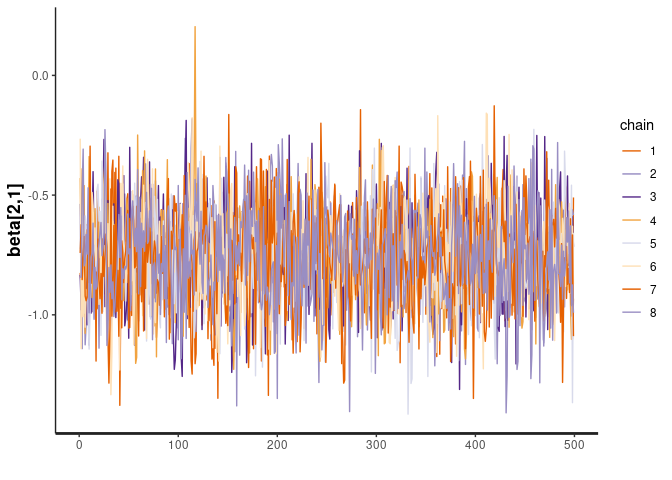
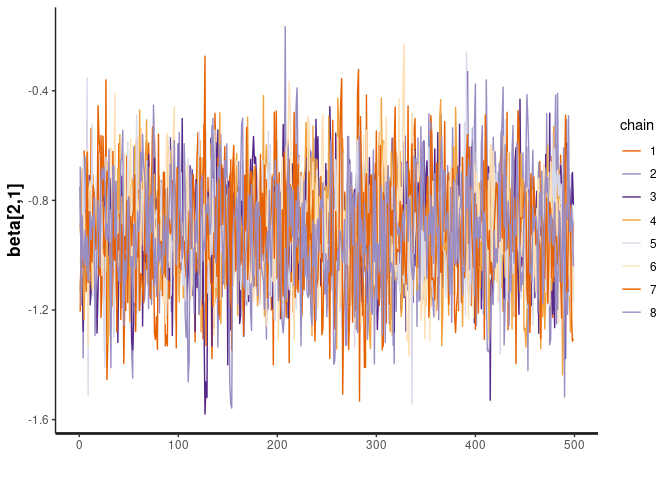
update plots and README

diff --git a/README.md b/README.md
@@ -109,18 +109,18 @@ res
 ```
 
     ## # A tibble: 72 × 8
-    ##    cell_group parameter   c_lower c_effect c_upper   c_pH0    c_FDR count_data  
-    ##    <chr>      <chr>         <dbl>    <dbl>   <dbl>   <dbl>    <dbl> <list>      
-    ##  1 B1         (Intercept)  0.565     0.759  0.957  0       0        <tibble [20…
-    ##  2 B1         typecancer  -1.14     -0.758 -0.382  0.00275 0.00112  <tibble [20…
-    ##  3 B2         (Intercept)  0.130     0.372  0.631  0.0735  0.00539  <tibble [20…
-    ##  4 B2         typecancer  -1.13     -0.669 -0.198  0.0260  0.00339  <tibble [20…
-    ##  5 B3         (Intercept) -0.744    -0.528 -0.316  0.00175 0.000228 <tibble [20…
-    ##  6 B3         typecancer  -0.708    -0.308  0.0761 0.292   0.0959   <tibble [20…
-    ##  7 BM         (Intercept) -1.39     -1.17  -0.965  0       0        <tibble [20…
-    ##  8 BM         typecancer  -0.742    -0.326  0.0882 0.265   0.0774   <tibble [20…
-    ##  9 CD4 1      (Intercept)  0.271     0.417  0.568  0.00200 0.000302 <tibble [20…
-    ## 10 CD4 1      typecancer  -0.0930    0.182  0.476  0.551   0.134    <tibble [20…
+    ##    cell_group parameter   c_lower c_effect c_upper    c_pH0     c_FDR count_data
+    ##    <chr>      <chr>         <dbl>    <dbl>   <dbl>    <dbl>     <dbl> <list>    
+    ##  1 B1         (Intercept)  0.489     0.675  0.866  0        0         <tibble […
+    ##  2 B1         typecancer  -1.29     -0.914 -0.536  0.000250 0.0000500 <tibble […
+    ##  3 B2         (Intercept)  0.0399    0.281  0.511  0.245    0.0157    <tibble […
+    ##  4 B2         typecancer  -1.04     -0.598 -0.136  0.0407   0.00507   <tibble […
+    ##  5 B3         (Intercept) -0.731    -0.535 -0.315  0.00125  0.000152  <tibble […
+    ##  6 B3         typecancer  -0.718    -0.312  0.0863 0.294    0.0803    <tibble […
+    ##  7 BM         (Intercept) -1.39     -1.18  -0.958  0        0         <tibble […
+    ##  8 BM         typecancer  -0.745    -0.336  0.0748 0.257    0.0597    <tibble […
+    ##  9 CD4 1      (Intercept)  0.266     0.410  0.561  0.00275  0.000260  <tibble […
+    ## 10 CD4 1      typecancer  -0.111     0.179  0.495  0.558    0.144     <tibble […
     ## # … with 62 more rows
 
 ## Visualise data + inference
@@ -153,10 +153,10 @@ significant if bigger than the minimal effect according to the 95%
 credible interval. Facets represent the covariates in the model.
 
 ``` r
-plots$plot_associations
+plots$credible_intervals_1D
 ```
 
-    ## NULL
+![](inst/figures/unnamed-chunk-11-1.png)<!-- -->
 
 ## Visualisation of the MCMC chains from the posterior distribution
 
@@ -177,7 +177,8 @@ We can model the cell-group variability also dependent on type, and so
 test differences in variability
 
 ``` r
-counts_obj |>
+res = 
+  counts_obj |>
   sccomp_glm( 
     formula_composition = ~ type, 
     formula_variability = ~ type, 
@@ -193,18 +194,47 @@ counts_obj |>
 
     ## sccomp says: outlier-free model fitting - step 3/3 [ETA: ~20s]
 
+``` r
+res
+```
+
     ## # A tibble: 72 × 13
-    ##    cell_group parameter   c_lower c_effect c_upper   c_pH0    c_FDR v_lower
-    ##    <chr>      <chr>         <dbl>    <dbl>   <dbl>   <dbl>    <dbl>   <dbl>
-    ##  1 B1         (Intercept)  0.460     0.646  0.825  0       0           4.83
-    ##  2 B1         typecancer  -1.39     -1.03  -0.672  0       0          -1.07
-    ##  3 B2         (Intercept)  0.0476    0.274  0.502  0.253   0.0232      4.57
-    ##  4 B2         typecancer  -1.12     -0.668 -0.202  0.0248  0.00411    -1.52
-    ##  5 B3         (Intercept) -0.740    -0.537 -0.317  0.00150 0.000141    5.60
-    ##  6 B3         typecancer  -0.773    -0.339  0.0868 0.251   0.0871     -1.84
-    ##  7 BM         (Intercept) -1.40     -1.18  -0.969  0       0           6.27
-    ##  8 BM         typecancer  -0.859    -0.433 -0.0111 0.148   0.0399     -1.21
-    ##  9 CD4 1      (Intercept)  0.255     0.403  0.559  0.00600 0.000385    5.31
-    ## 10 CD4 1      typecancer  -0.200     0.107  0.424  0.728   0.263      -1.51
+    ##    cell_group parameter   c_lower c_effect  c_upper    c_pH0     c_FDR v_lower
+    ##    <chr>      <chr>         <dbl>    <dbl>    <dbl>    <dbl>     <dbl>   <dbl>
+    ##  1 B1         (Intercept)  0.462     0.643  0.822   0        0           -4.80
+    ##  2 B1         typecancer  -1.40     -1.04  -0.675   0.000250 0.0000833    1.12
+    ##  3 B2         (Intercept)  0.0409    0.272  0.509   0.264    0.0250      -4.54
+    ##  4 B2         typecancer  -1.14     -0.659 -0.194   0.0270   0.00428      1.49
+    ##  5 B3         (Intercept) -0.733    -0.537 -0.319   0.00150  0.0000909   -5.57
+    ##  6 B3         typecancer  -0.764    -0.333  0.104   0.263    0.0813       1.88
+    ##  7 BM         (Intercept) -1.40     -1.19  -0.966   0        0           -6.26
+    ##  8 BM         typecancer  -0.842    -0.427 -0.00467 0.149    0.0449       1.21
+    ##  9 CD4 1      (Intercept)  0.246     0.399  0.553   0.00575  0.000437    -5.33
+    ## 10 CD4 1      typecancer  -0.198     0.107  0.414   0.725    0.245        1.55
     ## # … with 62 more rows, and 5 more variables: v_effect <dbl>, v_upper <dbl>,
     ## #   v_pH0 <dbl>, v_FDR <dbl>, count_data <list>
+
+Plot 1D significance plot
+
+``` r
+plots = plot_summary(res)
+```
+
+    ## Joining, by = c("sample", "cell_group")
+
+    ## Joining, by = c("cell_group", "type")
+
+``` r
+plots$credible_intervals_1D
+```
+
+![](inst/figures/unnamed-chunk-14-1.png)<!-- -->
+
+Plot 2D significance plot. This is possible if only differential
+variability has been tested
+
+``` r
+plots$credible_intervals_2D
+```
+
+![](inst/figures/unnamed-chunk-15-1.png)<!-- -->
